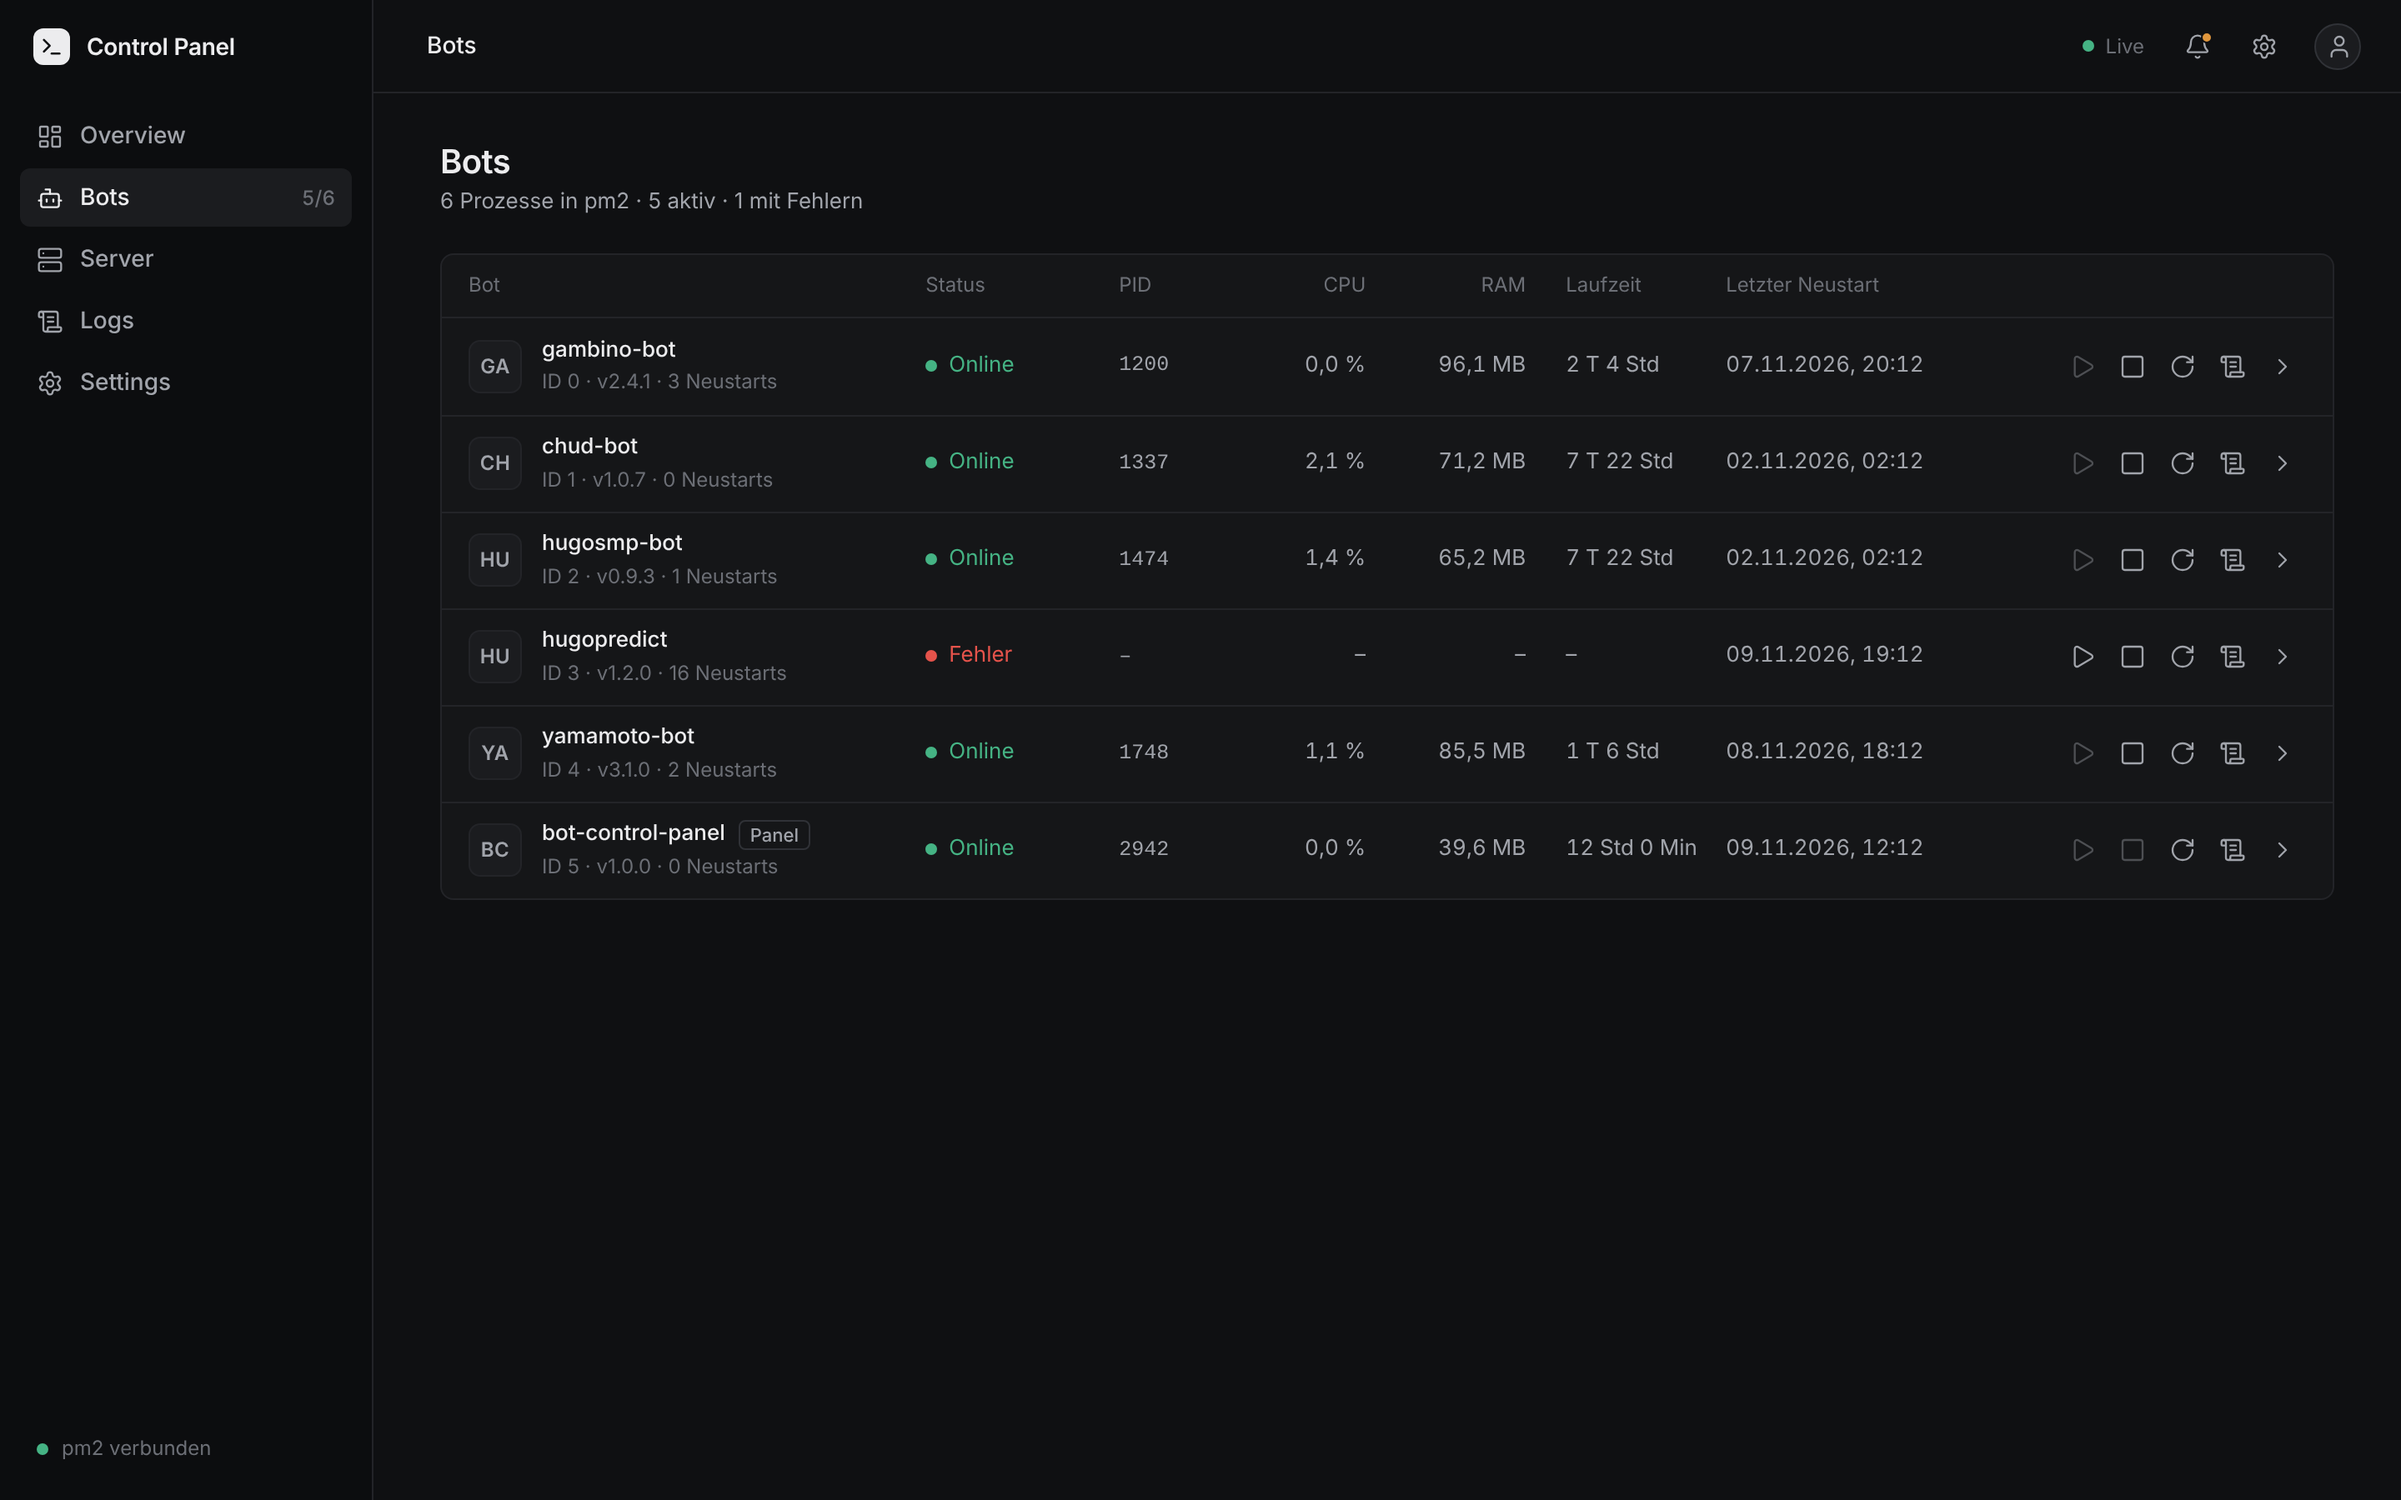
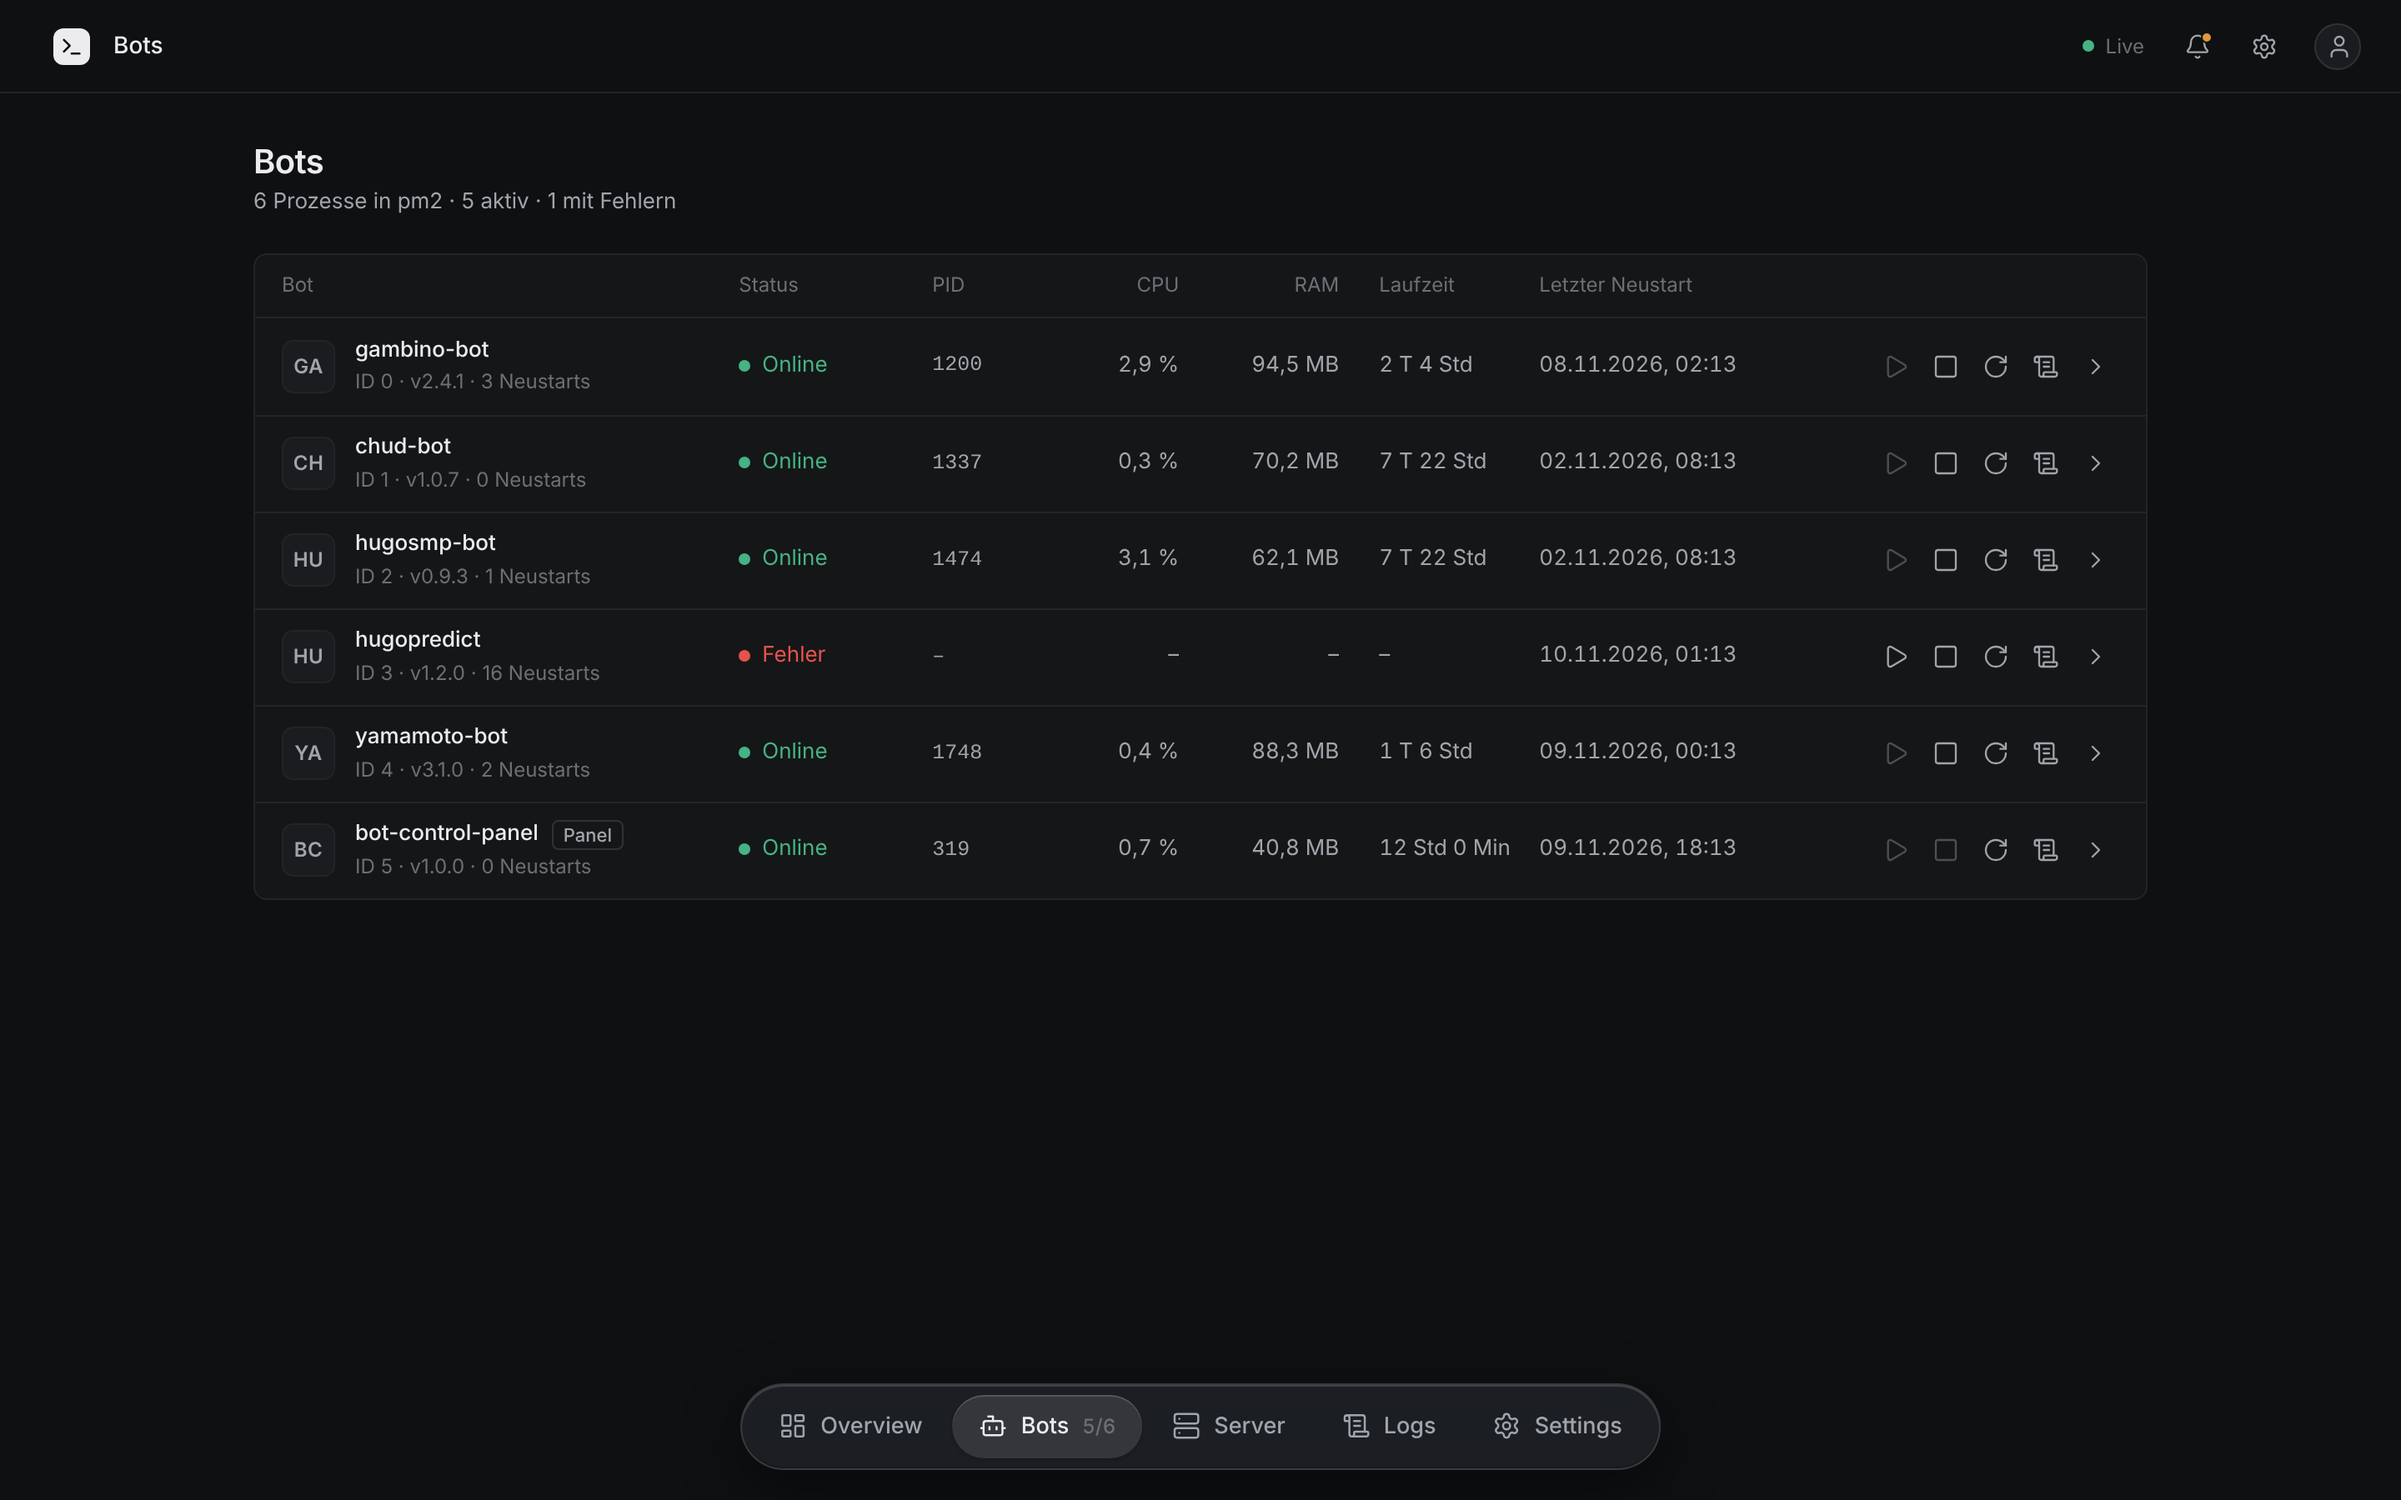
Navigation als schwebendes Glas-Dock am unteren Rand
Die linke Seitenleiste entfällt; die Navigation ist jetzt eine abgerundete,
halbtransparente Leiste mit Weichzeichner (Desktop und Handy).

Claude-Session: https://claude.ai/code/session_012pKAp5AXWsDuARP5dSJb9o

diff --git a/frontend/styles.css b/frontend/styles.css
@@ -1680,3 +1680,145 @@ code {
     transition: none !important;
   }
 }
+
+/* ---------- Navigation als schwebendes Glas-Dock (unten, abgerundet) ---------- */
+:root {
+  --glass-bg: rgba(36, 38, 44, 0.62);
+  --glass-border: rgba(255, 255, 255, 0.13);
+  --glass-hi: rgba(255, 255, 255, 0.16);
+  --glass-active: rgba(255, 255, 255, 0.11);
+  --glass-shadow: 0 12px 36px rgba(0, 0, 0, 0.42);
+}
+
+:root[data-theme='light'] {
+  --glass-bg: rgba(255, 255, 255, 0.66);
+  --glass-border: rgba(0, 0, 0, 0.08);
+  --glass-hi: rgba(255, 255, 255, 0.95);
+  --glass-active: rgba(0, 0, 0, 0.07);
+  --glass-shadow: 0 12px 36px rgba(0, 0, 0, 0.14);
+}
+
+.shell {
+  display: block;
+}
+
+.sidebar {
+  position: fixed;
+  top: auto;
+  right: auto;
+  left: 50%;
+  bottom: calc(18px + env(safe-area-inset-bottom));
+  transform: translateX(-50%);
+  z-index: 30;
+  width: max-content;
+  max-width: calc(100vw - 24px);
+  height: auto;
+  flex-direction: row;
+  padding: 6px;
+  border: 1px solid var(--glass-border);
+  border-radius: 999px;
+  background: var(--glass-bg);
+  -webkit-backdrop-filter: blur(30px) saturate(180%);
+  backdrop-filter: blur(30px) saturate(180%);
+  box-shadow: inset 0 1px 0 var(--glass-hi), inset 0 -1px 0 rgba(0, 0, 0, 0.18), var(--glass-shadow);
+}
+
+.sidebar .brand,
+.sidebar-foot {
+  display: none;
+}
+
+.nav {
+  flex-direction: row;
+  gap: 2px;
+  margin: 0;
+  width: auto;
+}
+
+.nav a {
+  flex: none;
+  flex-direction: row;
+  gap: 8px;
+  padding: 9px 16px;
+  border-radius: 999px;
+  font-size: 13.5px;
+  color: var(--text-2);
+}
+
+.nav a:hover {
+  background: var(--glass-active);
+}
+
+.nav a.active {
+  background: var(--glass-active);
+  color: var(--text);
+  box-shadow: inset 0 1px 0 var(--glass-hi), 0 1px 2px rgba(0, 0, 0, 0.18);
+}
+
+.nav a .icon {
+  width: 17px;
+  height: 17px;
+}
+
+.nav a .count {
+  display: inline;
+  margin-left: 0;
+}
+
+.mobile-brand {
+  display: grid;
+  margin-right: 6px;
+}
+
+.content {
+  padding-bottom: 128px;
+}
+
+.toasts {
+  bottom: 96px;
+}
+
+@media (max-width: 820px) {
+  .sidebar {
+    width: calc(100vw - 24px);
+    max-width: 460px;
+    bottom: calc(12px + env(safe-area-inset-bottom));
+    padding: 6px;
+    border: 1px solid var(--glass-border);
+    border-radius: 30px;
+  }
+
+  .nav {
+    width: 100%;
+  }
+
+  .nav a {
+    flex: 1;
+    flex-direction: column;
+    gap: 3px;
+    padding: 7px 2px 6px;
+    border-radius: 24px;
+    font-size: 10.5px;
+  }
+
+  .nav a.active {
+    background: var(--glass-active);
+  }
+
+  .nav a .icon {
+    width: 19px;
+    height: 19px;
+  }
+
+  .nav a .count {
+    display: none;
+  }
+
+  .content {
+    padding-bottom: 120px;
+  }
+
+  .toasts {
+    bottom: 96px;
+  }
+}

diff --git a/public/styles.css b/public/styles.css
@@ -1680,3 +1680,145 @@ code {
     transition: none !important;
   }
 }
+
+/* ---------- Navigation als schwebendes Glas-Dock (unten, abgerundet) ---------- */
+:root {
+  --glass-bg: rgba(36, 38, 44, 0.62);
+  --glass-border: rgba(255, 255, 255, 0.13);
+  --glass-hi: rgba(255, 255, 255, 0.16);
+  --glass-active: rgba(255, 255, 255, 0.11);
+  --glass-shadow: 0 12px 36px rgba(0, 0, 0, 0.42);
+}
+
+:root[data-theme='light'] {
+  --glass-bg: rgba(255, 255, 255, 0.66);
+  --glass-border: rgba(0, 0, 0, 0.08);
+  --glass-hi: rgba(255, 255, 255, 0.95);
+  --glass-active: rgba(0, 0, 0, 0.07);
+  --glass-shadow: 0 12px 36px rgba(0, 0, 0, 0.14);
+}
+
+.shell {
+  display: block;
+}
+
+.sidebar {
+  position: fixed;
+  top: auto;
+  right: auto;
+  left: 50%;
+  bottom: calc(18px + env(safe-area-inset-bottom));
+  transform: translateX(-50%);
+  z-index: 30;
+  width: max-content;
+  max-width: calc(100vw - 24px);
+  height: auto;
+  flex-direction: row;
+  padding: 6px;
+  border: 1px solid var(--glass-border);
+  border-radius: 999px;
+  background: var(--glass-bg);
+  -webkit-backdrop-filter: blur(30px) saturate(180%);
+  backdrop-filter: blur(30px) saturate(180%);
+  box-shadow: inset 0 1px 0 var(--glass-hi), inset 0 -1px 0 rgba(0, 0, 0, 0.18), var(--glass-shadow);
+}
+
+.sidebar .brand,
+.sidebar-foot {
+  display: none;
+}
+
+.nav {
+  flex-direction: row;
+  gap: 2px;
+  margin: 0;
+  width: auto;
+}
+
+.nav a {
+  flex: none;
+  flex-direction: row;
+  gap: 8px;
+  padding: 9px 16px;
+  border-radius: 999px;
+  font-size: 13.5px;
+  color: var(--text-2);
+}
+
+.nav a:hover {
+  background: var(--glass-active);
+}
+
+.nav a.active {
+  background: var(--glass-active);
+  color: var(--text);
+  box-shadow: inset 0 1px 0 var(--glass-hi), 0 1px 2px rgba(0, 0, 0, 0.18);
+}
+
+.nav a .icon {
+  width: 17px;
+  height: 17px;
+}
+
+.nav a .count {
+  display: inline;
+  margin-left: 0;
+}
+
+.mobile-brand {
+  display: grid;
+  margin-right: 6px;
+}
+
+.content {
+  padding-bottom: 128px;
+}
+
+.toasts {
+  bottom: 96px;
+}
+
+@media (max-width: 820px) {
+  .sidebar {
+    width: calc(100vw - 24px);
+    max-width: 460px;
+    bottom: calc(12px + env(safe-area-inset-bottom));
+    padding: 6px;
+    border: 1px solid var(--glass-border);
+    border-radius: 30px;
+  }
+
+  .nav {
+    width: 100%;
+  }
+
+  .nav a {
+    flex: 1;
+    flex-direction: column;
+    gap: 3px;
+    padding: 7px 2px 6px;
+    border-radius: 24px;
+    font-size: 10.5px;
+  }
+
+  .nav a.active {
+    background: var(--glass-active);
+  }
+
+  .nav a .icon {
+    width: 19px;
+    height: 19px;
+  }
+
+  .nav a .count {
+    display: none;
+  }
+
+  .content {
+    padding-bottom: 120px;
+  }
+
+  .toasts {
+    bottom: 96px;
+  }
+}
